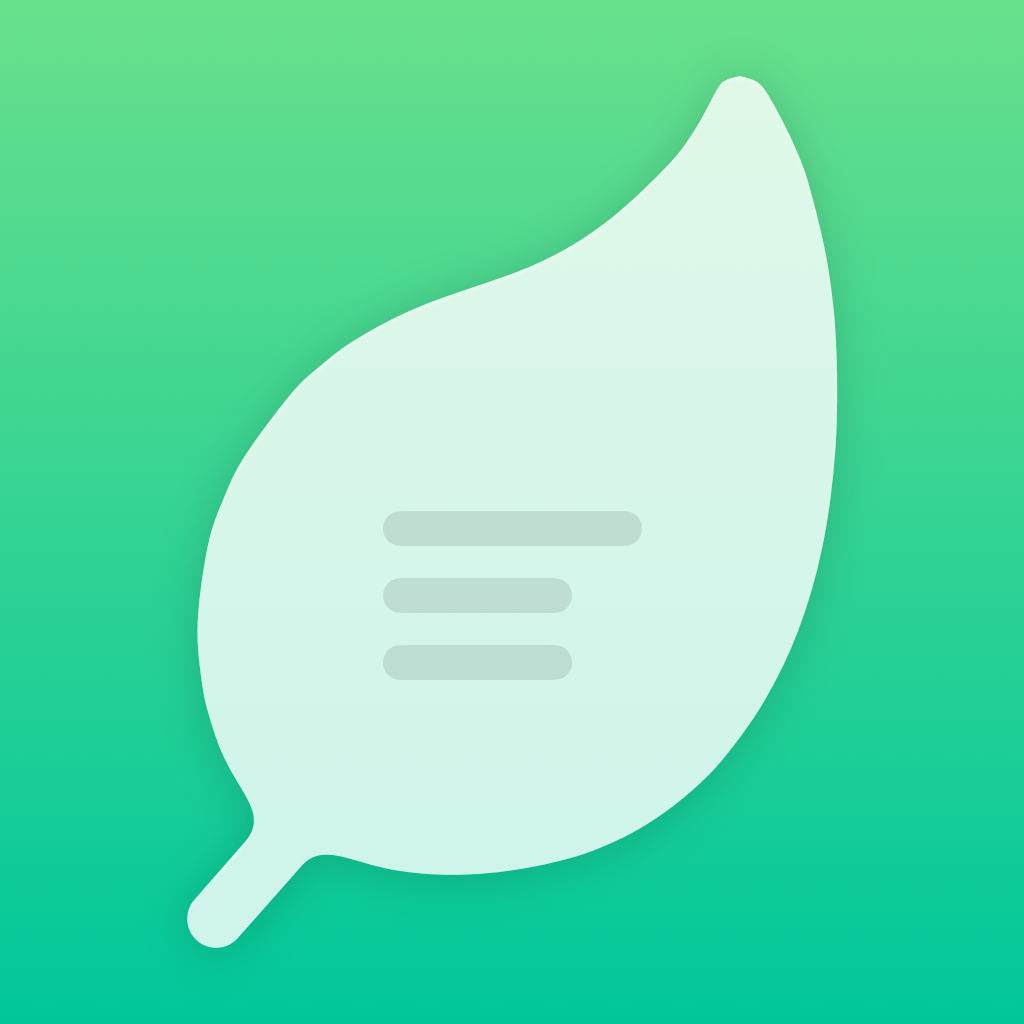
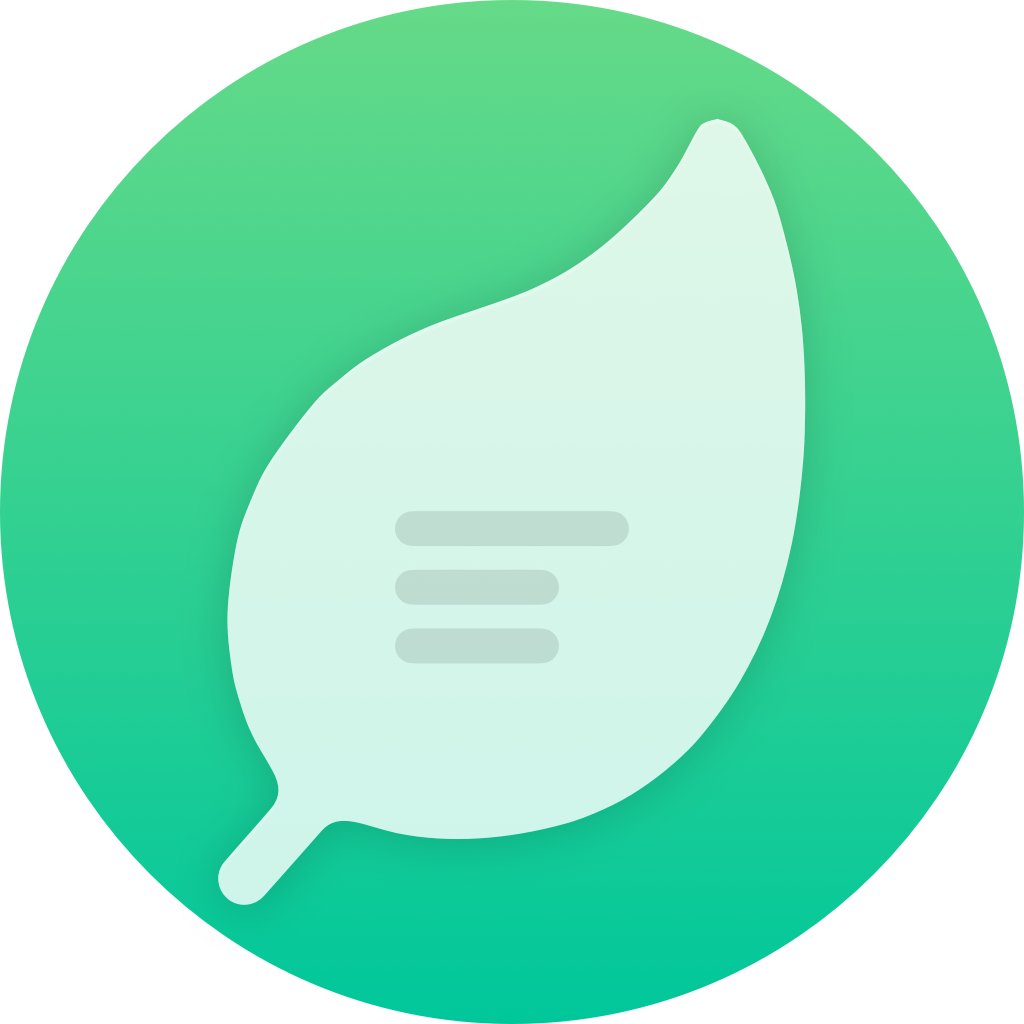
fix(pwa): 使用圆形图标修复 Windows 安装外观

diff --git a/vite.config.ts b/vite.config.ts
@@ -13,7 +13,7 @@ export default defineConfig({
     VitePWA({
       registerType: "prompt",
       includeAssets: [
-        "icon.svg", "icon-light.svg", "icon-dark.svg", "icon-maskable.svg", "favicon.ico",
+        "icon.svg", "icon-light.svg", "icon-dark.svg", "icon-round.svg", "icon-maskable.svg", "favicon.ico",
         "icon-192.png", "icon-512.png", "icon-1024.png",
         "icon-maskable-192.png", "icon-maskable-512.png", "icon-maskable-1024.png",
         "apple-touch-icon.png"
@@ -26,10 +26,10 @@ export default defineConfig({
         background_color: "#ffffff",
         display: "standalone",
         start_url: "/",
-        // Installed icons have no interoperable color-scheme override; use the light design.
+        // Use the light circular design for unmasked installed icons.
         icons: [
           {
-            src: "/icon-light.svg",
+            src: "/icon-round.svg",
             sizes: "any",
             type: "image/svg+xml",
             purpose: "any"

diff --git a/CHANGELOG.md b/CHANGELOG.md
@@ -2,6 +2,10 @@
 
 ## [未发布]
 
+### 变更
+
+- 普通 PWA 安装图标改用圆形设计，修复 Windows Chrome 安装后显示方形背景的问题。
+
 ## [0.31.2] - 2026-10-11
 
 ### 变更
